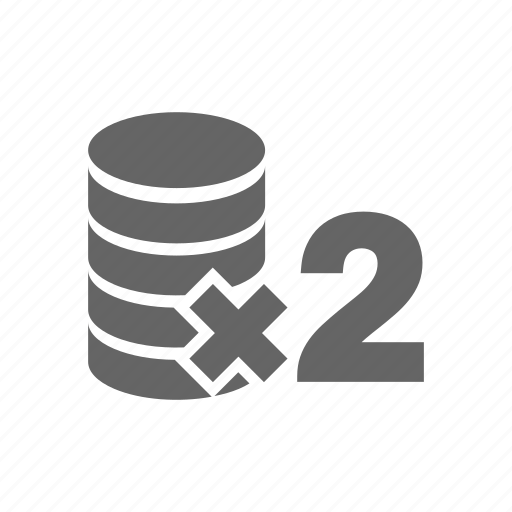
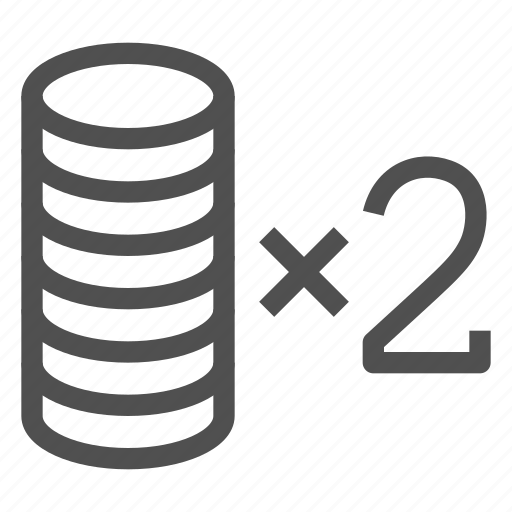
Weapons, Renamed and decided lots of powers

diff --git a/main.py b/main.py
@@ -104,7 +104,19 @@ betterluckimg.rect.y=grid.rect.y+100
 criticalclickimg=drawable(pg.transform.scale(pg.image.load("Critical_Click.png"),(125,125)))
 criticalclickimg.rect.x=grid.rect.x+785
 criticalclickimg.rect.y=grid.rect.y+100
-grabilities=[grid,winimg,damageimg,healthimg,regenerationimg,betterluckimg, criticalclickimg]
+doublemoneyimg=drawable(pg.transform.scale(pg.image.load("Double_Money.png"),(125,125)))
+doublemoneyimg.rect.x=grid.rect.x+90
+doublemoneyimg.rect.y=grid.rect.y+265
+daggerimg=drawable(pg.transform.scale(pg.image.load("Dagger.png"),(100,100)))
+daggerimg.rect.x=grid.rect.x+275
+daggerimg.rect.y=grid.rect.y+280
+swordimg=drawable(pg.transform.scale(pg.image.load("Sword.png"),(125,125)))
+swordimg.rect.x=grid.rect.x+435
+swordimg.rect.y=grid.rect.y+265
+bowimg=drawable(pg.transform.scale(pg.image.load("Bow.png"),(125,125)))
+bowimg.rect.x=grid.rect.x+620
+bowimg.rect.y=grid.rect.y+265
+grabilities=[grid,winimg,damageimg,healthimg,regenerationimg,betterluckimg, criticalclickimg, doublemoneyimg, daggerimg, swordimg, bowimg]
 winscreen=drawable(pg.image.load("Victory.jpg"))
 winscreen.rect.centerx=WIDTH/2
 reinforcements=0
@@ -190,20 +202,28 @@ def abilitytext(ability, image):
     if image.rect.y>=WIDTH/2:
         box=pg.Rect(image.rect.right,image.rect.bottom,300,200)
     else:
-        box = pg.Rect(image.rect.right, image.rect.top, 300, 200)
+        box = pg.Rect(image.rect.right, image.rect.top, 350, 200)
     pg.draw.rect(win,(255,255,255),box)
     if ability=="Win":
-        text=["           .Win.", "", "     Instantly Wins The Game"]
+        text=["              .Win.", "", "           Instantly Wins The Game"]
     elif ability=="Damage":
-        text=["      .Damage.", "", "     Increases Damage Output"]
+        text=["         .Damage.", "", "          Increases Damage Output"]
     elif ability=="Health":
-        text=["        .Health.", "", "        Increases Jon's Health"]
+        text=["           .Health.", "", "              Increases Jon's Health"]
     elif ability=="Regeneration":
-        text=[" .Regeneration.", "", "      Regenerates Jon's Lost", "             Health Over Time"]
+        text=["    .Regeneration.", "", "            Regenerates Jon's Lost", "                  Health Over Time"]
     elif ability=="Better_Luck":
-        text=["   .Better Luck.", "", "        Increases The Chances", "         To Get Rare Abilities"]
+        text=["      .Better Luck.", "", "             Increases The Chances", "              To Get Rare Abilities"]
     elif ability=="Critical_Click":
-        text=[" .Critical Click.", "", "        Increases The Chances", "              And Damage Of", "                Critical Clicks"]
+        text=["    .Critical Click.", "", "             Increases The Chances", "                   And Damage Of", "                     Critical Clicks"]
+    elif ability=="Double_Money":
+        text=["   .Double Money.", "", "                Doubles The Money", "                       You Obtain"]
+    elif ability=="Dagger":
+        text=["          .Dagger.", "", "                       Gives Jon A", "                 Throwable Dagger"]
+    elif ability=="Sword":
+        text=["           .Sword.", "", "                 Gives Jon A Sword", "             That Spins Around Him"]
+    elif ability=="Bow":
+        text=["             .Bow.", "", "              Gives Jon A Bow That", "              Spins Around Him And", "          Shoot Arrows Periodically"]
     for i in range(len(text)):
         if i==0:
             abtext = Fonte.render(text[i], True, getrarity(ability))
@@ -310,6 +330,14 @@ while play:
                                     abilitytext("Better_Luck", betterluckimg)
                                 if criticalclickimg.rect.collidepoint(pg.mouse.get_pos()):
                                     abilitytext("Critical_Click", criticalclickimg)
+                                if doublemoneyimg.rect.collidepoint(pg.mouse.get_pos()):
+                                    abilitytext("Double_Money", doublemoneyimg)
+                                if daggerimg.rect.collidepoint(pg.mouse.get_pos()):
+                                    abilitytext("Dagger", daggerimg)
+                                if swordimg.rect.collidepoint(pg.mouse.get_pos()):
+                                    abilitytext("Sword", swordimg)
+                                if bowimg.rect.collidepoint(pg.mouse.get_pos()):
+                                    abilitytext("Bow", bowimg)
                                 pg.display.update()
                                 for event in pg.event.get():
                                     if event.type == pg.QUIT:
@@ -377,7 +405,7 @@ while play:
         coim.move(10, Jon.rect.center)
         if coim.rect.colliderect(Jon.rect):
             coinbag.remove(coim)
-            money+=2**powers["Double Money"].stacks*(copy.money+3)
+            money+=(copy.money+3)
             moneyt = Fonta.render(f"${money}", True, (255, 255, 255))
     for enemy in enemies:
         enemy.move(1,Jon.rect.center)
@@ -393,3 +421,4 @@ while play:
 # GACHA in the menu
 # IF DUPLICATES HAPPEN YOUR ABILITY UPGRADES
 # LOSE LIVES=GAME OVER
+# Luck will add to the rares and if the ability is maxed out it would reroll
